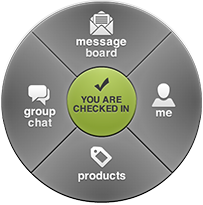
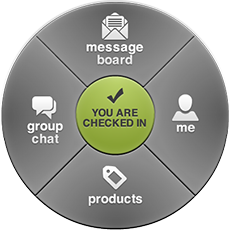
Changed size of remote

diff --git a/Resources/ui/common/Cs_CheckinMainWindow.js b/Resources/ui/common/Cs_CheckinMainWindow.js
@@ -107,7 +107,7 @@ CheckinMainWindow = function (_tvprogramData, _containingTab){
 	channelView.add(programChannelImage);	
 	headerView.add(channelView);
 	
-	var checkinView = Ti.UI.createView({
+	var checkinNum = Ti.UI.createView({
 		width: 52,
 		bottom:5,
 		left: 150,
@@ -125,9 +125,9 @@ CheckinMainWindow = function (_tvprogramData, _containingTab){
 		font: {fontSize: 14},
 		bottom: 0
 	});
-	checkinView.add(programNumCheckin);
-	checkinView.add(programNumCheckinImage);	
-	headerView.add(checkinView);
+	checkinNum.add(programNumCheckin);
+	checkinNum.add(programNumCheckinImage);	
+	headerView.add(checkinNum);
 	
 	var friendView = Ti.UI.createView({
 		width: 52,
@@ -153,7 +153,7 @@ CheckinMainWindow = function (_tvprogramData, _containingTab){
 		
 ///////////////////////////////////////////////////Checkin Section
 
-	var checkinView = Ti.UI.createView({
+	var checkinSection = Ti.UI.createView({
 		top: 121,
 		left:0,
 		height: 265,
@@ -161,175 +161,134 @@ CheckinMainWindow = function (_tvprogramData, _containingTab){
 		backgroundImage: 'images/checkinBG.png'
 	});
 
-	//add button as image
-	var meButton = Ti.UI.createImageView({
-		image: '/images/checkin/checkin_me_enable.png',
-		right: 43,
-		width:89,
-		height: 167,
-		touchEnabled: true,
+	var remote = Ti.UI.createView({
+		backgroundImage: 'images/checkin/uncheckin_remote.png',
+		width: 230,
+		height: 232,
+		top: 8
 	});
 
-	var chatButton = Ti.UI.createImageView({
-		image: '/images/checkin/checkin_chat.png',
-		left: 43,
-		width:89,
-		height: 167,
-		touchEnabled: false		
-	});
+	self.add(checkinSection);
+	checkinSection.add(remote);
 	
-	var boardButton = Ti.UI.createImageView({
-		image: '/images/checkin/checkin_board.png',
-		top: 16,
-		width: 166,
-		height: 89,
-		touchEnabled: false
+	var checkinView = Ti.UI.createView({
+		top: 215,
+		left: 130,
+		width: 60,
+		height: 60,
+		backgroundColor: 'orange',
+		opacity: 0.3,
+		zIndex: 3
 	});
-
-	var productButton = Ti.UI.createImageView({
-		image: '/images/checkin/checkin_products.png',
-		bottom: 16,
-		width: 167,
-		height: 89,
-		touchEnabled: false
-	});
-
-	var checkinButton = Ti.UI.createButton({
-		style: Ti.UI.iPhone.SystemButtonStyle.PLAIN,
-		image: '/images/checkin/checkin_check.png',
-		borderRadius: 42.5,
-		width:85,
-		height:85,
-	});
-	
-	var remoteDefault = Ti.UI.createImageView({
-		image: 'images/checkin/uncheckin_remote.png',
-		width: 203,
-		height: 205,
-		top: 20
-	});
-
-	
-	//Add UI
 	self.add(checkinView);
-	// checkinView.add(meButton);
-	// checkinView.add(chatButton);
-	// checkinView.add(boardButton);
-	// checkinView.add(productButton);
-	// checkinView.add(checkinButton);
-	checkinView.add(remoteDefault);
+	
+	var meView = Ti.UI.createView({
+		top: 206,
+		right: 53,
+		width: 68,
+		height: 85,
+		backgroundColor: 'orange',
+		opacity: 0.3,
+		zIndex: 3
+	});
+	self.add(meView);
+	
+	var messageboardView = Ti.UI.createView({
+		top: 141,
+		width: 93,
+		height: 59,
+		right: 115,
+		backgroundColor: 'orange',
+		opacity: 0.3,
+		zIndex: 3
+	});
+	self.add(messageboardView);
+	
+	var chatView = Ti.UI.createView({
+		top: 199,
+		left: 55,
+		width: 59,
+		height: 94,
+		backgroundColor: 'orange',
+		opacity: 0.3,
+		zIndex: 3
+	});
+	self.add(chatView);
+	
+	var productView = Ti.UI.createView({
+		top: 290,
+		left: 113,
+		width: 97,
+		height: 57,
+		backgroundColor: 'orange',
+		opacity: 0.3,
+		zIndex: 3
+	});
+	self.add(productView);
 	
 	var eventId = _tvprogramData.eventId;
 	var checkin = CheckinModel.checkin_isCheckin(eventId);
 	
-	//This program is check-in or not
-	if(checkin === true){
-		checkinButton.enabled = false;
-		chatButton.touchEnabled = true;
-		productButton.touchEnabled =true;
-		boardButton.touchEnabled = true;
-		
-		checkinButton.image = 'images/checkin/checkin_check_checked.png';
-		chatButton.image = 'images/checkin/checkin_chat_enable.png';
-		productButton.image = 'images/checkin/checkin_products_enable.png';
-		boardButton.image = 'images/checkin/checkin_board_enable.png';	
+	//Checkin Button
+	if(checkin === false){
+		checkinView.addEventListener('touchstart',function(){
+			remote.backgroundImage = 'images/checkin/checkin_remote.png';
+		});
+		checkinView.addEventListener('touchend',function(){
+			remote.backgroundImage = 'images/checkin/checkin_remote.png';
+		});
 	}
+	else{
+		remote.backgroundImage = 'images/checkin/checkin_remote.png';
+		checkinView.touchEnabled = false;
+		alert('You have checked-in already');
+	}
+
 	
-//////////////////////////////////////////////////////////////	
-	// remoteDefault.addEventListener('click',function(ev){
-		// var localPoint = {x:ev.x, y:ev.y};
-		// alert("localPoint: " + localPoint.x + " " + localPoint.y);
-	// });
-
-//////////////////////////////////////////////////////////////
-function isPointInPoly(poly, pt)
-{
-    for(var c = false, i = -1, l = poly.length, j = l - 1; ++i < l; j = i) 
-        ((poly[i].y <= pt.y && pt.y < poly[j].y) || (poly[j].y <= pt.y && pt.y < poly[i].y)) && (pt.x < (poly[j].x - poly[i].x) * (pt.y - poly[i].y) / (poly[j].y - poly[i].y) + poly[i].x) && (c = !c);
-    return c;
-}
-
-	var checkinPoint = [
-		{x: 77.5, y: 80},
-		{x: 68.5, y: 102},
-		{x: 77.5, y: 127},
-		{x: 100.5, y: 138},
-		{x: 127, y: 129},
-		{x: 136, y: 103},
-		{x: 127, y:80},
-		{x: 100.5, y:69}
-	]; 
+	//Me Button
+	meView.addEventListener('touchstart',function(){
+		if(remote.backgroundImage === 'images/checkin/uncheckin_remote.png')
+			remote.backgroundImage = 'images/checkin/me-hilight-uncheckin_remote.png';
+		else
+			remote.backgroundImage = 'images/checkin/me-hilight-checkin_remote.png';
+	});
+	meView.addEventListener('touchend',function(){
+		if(remote.backgroundImage === 'images/checkin/me-hilight-uncheckin_remote.png')
+			remote.backgroundImage = 'images/checkin/uncheckin_remote.png';
+		else
+			remote.backgroundImage = 'images/checkin/checkin_remote.png';
+	});
 	
-	var mePoint = [
-		{X: 172.5, y:35},
-		{x: 139.5, y:71},
-		{x: 139.5, y:135},
-		{x: 172, y:171},	
-		{x: 200, y:103},
-	];
-
-
-	self.addEventListener('click',function(e){
-		if(isPointInPoly(checkinPoint, {x: e.x, y: e.y})){
-			remoteDefault.image = 'images/checkin/checkin_remote.png';
-		}
-		else if(isPointInPoly(mePoint, {x: e.x, y: e.y})){
-			remoteDefault.image = 'images/checkin/me-hi_remote.png';
-		}
-	});	
+	//Messageboard Button
+	messageboardView.addEventListener('touchstart',function(){
+		remote.backgroundImage = 'images/checkin/messageboard-hilight_remote.png';
+	});
+	messageboardView.addEventListener('touchend',function(){
+		remote.backgroundImage = 'images/checkin/checkin_remote.png';
+	});
+	
+	//Chat Button
+	chatView.addEventListener('touchstart',function(){
+		remote.backgroundImage = 'images/checkin/groupchat-hilight_remote.png';
+	});
+	chatView.addEventListener('touchend',function(){
+		remote.backgroundImage = 'images/checkin/checkin_remote.png';
+	});
+	
+	//Product Button
+	productView.addEventListener('touchstart',function(){
+		remote.backgroundImage = 'images/checkin/product-hilight_remote.png';
+	});
+	productView.addEventListener('touchend',function(){
+		remote.backgroundImage = 'images/checkin/checkin_remote.png';
+	});
+	
 		
+	//Operation LOGIC
 	
-	// self.addEventListener('touchstart',function(e){
-		// if(checkinButton.enabled===true){
-			// if(isPointInPoly(boardPoint, {x: e.x, y: e.y})||(isPointInPoly(productPoint, {x: e.x, y: e.y}))||(isPointInPoly(chatPoint, {x: e.x, y: e.y}))){
-				// alert('Check in to activate the control');
-			// }
-			// else if(isPointInPoly(mePoint, {x: e.x, y: e.y})){
-				// meButton.image = 'images/checkin/me-hi_remote.png';
-			// }
-		// } else {
-			// if(isPointInPoly(boardPoint, {x: e.x, y: e.y})){
-				// boardButton.image = 'images/checkin/checkin_board_mouseover.png';
-			// }
-			// if(isPointInPoly(mePoint, {x: e.x, y: e.y})){
-				// meButton.image = 'images/checkin/checkin_me_mouseover.png';
-			// }
-			// if(isPointInPoly(productPoint, {x: e.x, y: e.y})){
-				// productButton.image = 'images/checkin/checkin_products_mouseover.png';
-			// }
-			// if(isPointInPoly(chatPoint, {x: e.x, y: e.y})){
-				// chatButton.image = 'images/checkin/checkin_chat_mouseover.png';
-			// }				
-		// }
-	// });
-// 
-	// self.addEventListener('touchend',function(e)
-	// {
-		// if(checkinButton.enabled===true){
-			// if(isPointInPoly(boardPoint, {x: e.x, y: e.y})||(isPointInPoly(productPoint, {x: e.x, y: e.y}))||(isPointInPoly(chatPoint, {x: e.x, y: e.y}))){
-				// //alert('Check in to activate the control');
-			// }
-			// else if(isPointInPoly(mePoint, {x: e.x, y: e.y})){
-				// meButton.image = 'images/checkin/checkin_me_enable.png';
-			// }
-		// } else {		
-			// if(isPointInPoly(boardPoint, {x: e.x, y: e.y})){
-				// boardButton.image = 'images/checkin/checkin_board_enable.png';
-			// }
-			// if(isPointInPoly(mePoint, {x: e.x, y: e.y})){
-				// meButton.image = 'images/checkin/checkin_me_enable.png';
-			// }
-			// if(isPointInPoly(productPoint, {x: e.x, y: e.y})){
-				// productButton.image = 'images/checkin/checkin_products_enable.png';
-			// }
-			// if(isPointInPoly(chatPoint, {x: e.x, y: e.y})){
-				// chatButton.image = 'images/checkin/checkin_chat_enable.png';
-			// }				
-		// }
-	// });	
-/////////////////////////////////////////////////////////////
+
 	
-	checkinButton.addEventListener('click',function(){
+	checkinView.addEventListener('touchend',function(){
 		var ActivityDataIdForACS = updateActivity.updateActivity_myDatabase('checkin',_tvprogramData);
 		
 		var allActivityDataForACS =  ActivityDataIdForACS[0];	//resultArray
@@ -353,28 +312,23 @@ function isPointInPoly(poly, pt)
 		LeaderBoardACS.leaderACS_updateUserInfo(leaderboardId,leaderboardData.point);
 		
 		myCurrentCheckinPrograms.push(_tvprogramData.programId);
-		checkinButton.enabled = false;
-		checkinButton.image = 'images/checkin/checkin_check_checked.png';
-		chatButton.image = 'images/checkin/checkin_chat_enable.png';
-		productButton.image = 'images/checkin/checkin_products_enable.png';
-		boardButton.image = 'images/checkin/checkin_board_enable.png';	
 		
 		Ti.App.fireEvent('checkinToProgram');	
 	});
 	
-	chatButton.addEventListener('touchstart',function(){
+	chatView.addEventListener('touchend',function(){
 		curTabGroup.setActiveTab(1)
 	});
 	
-	boardButton.addEventListener('touchstart',function(){
+	messageboardView.addEventListener('touchend',function(){
 		curTabGroup.setActiveTab(2);
 	});
 
-	productButton.addEventListener('touchstart',function(){
+	productView.addEventListener('touchend',function(){
 		curTabGroup.setActiveTab(3)
 	});
 
-	meButton.addEventListener('touchstart',function(){
+	meView.addEventListener('touchend',function(){
 		curTabGroup.setActiveTab(4)
 	});
 

diff --git a/Resources/model/topic.js b/Resources/model/topic.js
@@ -96,7 +96,7 @@ exports.topicModel_updateTopicsFromACS = function(_topicsCollection, _programId)
 	for(var i=0;i < _topicsCollection.length; i++) {
 		var curTopic = _topicsCollection[i];
 		var deviceToken = "UNDEFINED";
-		if(curTopic.user.custom_fields.device_token_id !== undefined) deviceToken = curTopic.user.custom_fields.device_token_id;
+//		if(curTopic.user.custom_fields.device_token_id !== undefined) deviceToken = curTopic.user.custom_fields.device_token_id;
 		db.execute("INSERT INTO topics(id,acs_object_id,program_id,title,comments_count, username,device_token_id, is_deleted,updated_at) VALUES(NULL,?,?,?,?,?,?,?,?)", 
 					curTopic.id,_programId,curTopic.title,curTopic.commentsCount, curTopic.user.username,deviceToken,curTopic.isDeleted, convertACSTimeToLocalTime(curTopic.updatedAt));
 	}

diff --git a/Resources/ui/common/ApplicationTabGroup.js b/Resources/ui/common/ApplicationTabGroup.js
@@ -27,7 +27,7 @@ function ApplicationTabGroup() {
 	var selectionwin = new ChannelSelectionMainWindow();
 	var chatwin = new ChatMainWindow(programDummy);
 	var messageboardwin = new MessageboardMainWindow(7);		
-	var productwin = new ProductMainWindow('CH3_00TGT');
+	var productwin = new ProductMainWindow('CH3_000HT');
 	var profilewin =  new ProfileMainWindow(myUserId,"me");
 	var blankwin = new BlankWindow();
 	
